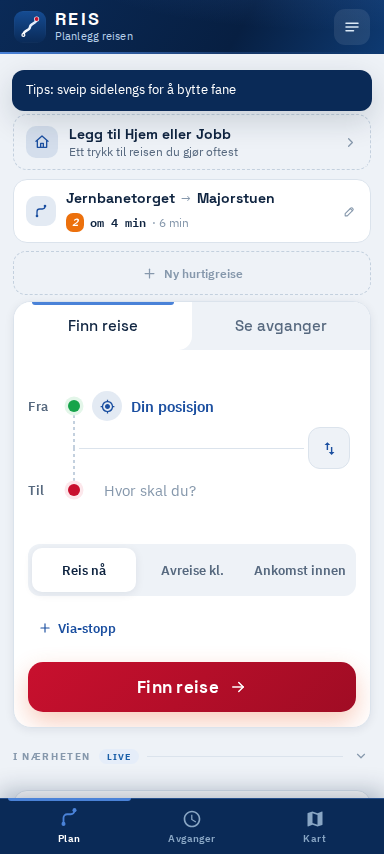
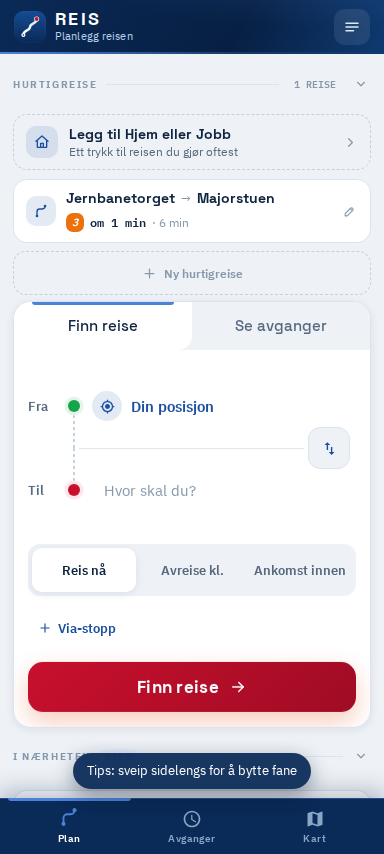
Add files via upload

Changed region(s): [[0.0312, 0.0609, 0.9688, 0.1522], [0.1875, 0.8829, 0.8125, 0.9438], [0.2812, 0.2436, 0.3125, 0.274]]

diff --git a/index.html b/index.html
@@ -1037,24 +1037,18 @@ a{color:inherit}
 .ac-item .ic svg{width:15px;height:15px;display:block}
 .ac-item b{font-size:13.5px;display:block;color:var(--ink)}
 .ac-item span{font-size:11px;color:var(--muted);display:block;white-space:nowrap;overflow:hidden;text-overflow:ellipsis;max-width:240px}
-/* FIX: linja lå over bunnmenyen og dekket fanene. Nå er den en egen rad i
-   appens ramme, rett under topplinja – da tar den sin egen plass og kan ikke
-   dekke noe som helst. Hele linja er trykkbar og åpner valgene. */
-#wakeStatus{flex:none;position:relative;z-index:1150;width:100%;min-height:46px;
-  display:flex;align-items:center;gap:10px;padding:7px 13px;text-align:left;
-  background:linear-gradient(100deg,var(--green-2,#12805A),var(--green,#16A34A));
-  color:#fff;box-shadow:0 4px 14px rgba(4,20,43,.28);
-  animation:wsIn .32s cubic-bezier(.22,1,.36,1)}
-@keyframes wsIn{from{opacity:0;transform:translateY(-100%)}to{opacity:1;transform:none}}
-#wakeStatus>svg{width:18px;height:18px;flex:none;animation:pulse 1.8s infinite}
-#wakeStatus .ws-txt{flex:1;min-width:0;display:flex;flex-direction:column;gap:1px}
-#wakeStatus b{font-size:13px;font-family:var(--font-d);white-space:nowrap;overflow:hidden;text-overflow:ellipsis}
-#wakeStatus .ws-sub{font-size:11px;opacity:.9;font-family:var(--font-m);white-space:nowrap;overflow:hidden;text-overflow:ellipsis}
-#wakeStatus .ws-more{flex:none;display:grid;place-items:center;width:26px;height:26px;border-radius:8px;
-  background:rgba(255,255,255,.18)}
-#wakeStatus .ws-more svg{width:13px;height:13px;display:block}
-/* Nær målet skifter linja til rødt – du skal av nå */
-#wakeStatus.soon{background:linear-gradient(100deg,var(--signal-2),var(--signal))}
+/* Varselet er ikke en hel rad lenger, men en kompakt brikke i topplinja. Den
+   tar ingen plass fra innholdet, står alltid synlig, og åpner valgene ved trykk. */
+#wakeChip{flex:none;display:flex;align-items:center;gap:7px;height:34px;padding:0 11px;
+  border-radius:999px;background:rgba(22,163,74,.92);color:#fff;
+  font-size:12px;font-weight:700;font-family:var(--font-m);white-space:nowrap;
+  box-shadow:0 2px 8px rgba(4,20,43,.3);animation:chipIn .3s cubic-bezier(.3,1.3,.4,1);
+  max-width:46vw;overflow:hidden}
+@keyframes chipIn{from{opacity:0;transform:scale(.8)}to{opacity:1;transform:none}}
+#wakeChip svg{width:14px;height:14px;flex:none;animation:pulse 1.8s infinite}
+#wakeChip .wc-t{overflow:hidden;text-overflow:ellipsis}
+#wakeChip.soon{background:rgba(200,16,46,.95)}
+#wakeChip:active{transform:scale(.94)}
 
 /* Oppdateringsbanner: uten dette kjørte appen videre på gammel kode helt til
    den ble lukket og åpnet på nytt. */
@@ -1067,12 +1061,21 @@ a{color:inherit}
   color:#fff;font-weight:700;font-size:12.5px}
 #updateBar .ub-x{flex:none;width:30px;height:30px;border-radius:9px;color:#A9C6E4;display:grid;place-items:center}
 #updateBar .ub-x svg{width:13px;height:13px;display:block}
-#toasts{position:absolute;top:calc(70px + var(--sat));left:12px;right:12px;z-index:3000;display:flex;flex-direction:column;gap:8px;pointer-events:none}
-.toast{background:var(--navy);color:#fff;font-size:13px;padding:11px 14px;border-radius:12px;box-shadow:var(--sh-2);animation:toastIn .3s cubic-bezier(.3,1.3,.4,1);pointer-events:auto;display:flex;align-items:flex-start;gap:10px;line-height:1.45}
+/* Meldingene lå øverst og dekket innholdet du nettopp handlet på. Nå ligger de
+   nederst, rett over menyen, som i systemets egne varsler – og bare én om
+   gangen, så de ikke stabler seg. */
+#toasts{position:absolute;left:12px;right:12px;bottom:calc(66px + var(--sab));z-index:3000;
+  display:flex;flex-direction:column-reverse;gap:6px;pointer-events:none;align-items:center}
+/* Kompakt og bare så bred som teksten trenger – ikke en grønn plate over
+   halve skjermen. */
+.toast{max-width:100%;background:rgba(10,42,87,.94);color:#fff;font-size:12.5px;
+  padding:9px 14px;border-radius:999px;box-shadow:0 6px 20px rgba(4,20,43,.4);
+  backdrop-filter:blur(8px);animation:toastIn .28s cubic-bezier(.3,1.3,.4,1);
+  pointer-events:auto;display:flex;align-items:center;gap:10px;line-height:1.4}
 .toast span{flex:1;min-width:0;word-break:break-word}
 .toast .toast-copy{flex:none;font-size:10.5px;font-weight:700;letter-spacing:.06em;background:rgba(255,255,255,.18);border-radius:7px;padding:5px 9px;color:#fff}
-.toast.err{background:#B02A37}
-.toast.ok{background:#0E7A3D}
+.toast.err{background:rgba(176,42,55,.95)}
+.toast.ok{background:rgba(14,122,61,.94)}
 .toast.out{opacity:0;transform:translateY(-8px);transition:all .3s}
 @keyframes toastIn{from{opacity:0;transform:translateY(-10px) scale(.96)}}
 #wakeFlash{position:fixed;inset:0;z-index:5000;display:none;flex-direction:column;align-items:center;justify-content:center;gap:14px;background:linear-gradient(160deg,var(--signal),var(--signal-2));color:#fff;text-align:center;padding:30px}
@@ -1117,10 +1120,10 @@ a{color:inherit}
       </svg>
       <div class="brand-txt"><h1>REIS</h1><small id="topContext">Planlegg reisen</small></div>
     </div>
+    <button id="wakeChip" hidden aria-label="Aktivt varsel – trykk for valg"></button>
     <button class="icon-btn tap" id="btnMore" aria-label="Mer – lagret, utseende og innstillinger"></button>
   </header>
 
-  <button id="wakeStatus" hidden aria-label="Aktivt varsel – trykk for valg"></button>
   <main id="views">
 
     <section id="viewPlan" class="view active">
@@ -1669,6 +1672,9 @@ function toastOnce(msg,type='',raw='',ms=60000){
   toast(msg,type,raw);
 }
 function toast(msg,type='',raw=''){
+  /* Én melding om gangen. Stabler de seg, er det alltid den nyeste som gjelder. */
+  const boks=$('#toasts');
+  if(boks)while(boks.children.length>0)boks.firstElementChild.remove();
   const t=el('div','toast '+type);
   t.appendChild(el('span',null,esc(msg)));
   if(raw){const b=el('button','toast-copy','KOPIER');
@@ -1765,7 +1771,7 @@ if(matchMedia('(prefers-color-scheme: dark)').addEventListener)matchMedia('(pref
    allerede åpen side beholder gammel HTML og JS selv om en ny service worker
    er installert. Nå oppdages det, og du får velge når. */
 /* Denne må holdes lik VERSION i sw.js. Byggeskriptet sjekker at de stemmer. */
-const APP_VERSION='v6.5.0';
+const APP_VERSION='v6.6.0';
 let swReg=null,waitingSW=null,reloading=false,byttetSelv=false;
 
 /* Service worker-livssyklusen er lunefull: en ny versjon kan bli hengende i
@@ -2001,7 +2007,7 @@ async function ensureMap(){
     return null;
   }
 }
-$('#mfRetry').onclick=async()=>{const m=await ensureMap();if(m){m.invalidateSize({pan:false});applyMapContext();toast('Kartet er lastet','ok')}};
+$('#mfRetry').onclick=async()=>{const m=await ensureMap();if(m){m.invalidateSize({pan:false});applyMapContext();0}};
 
 /* Leaflet kaster hardt på NaN-koordinater og river med seg hele visningen.
    Alt som skal på kartet passerer denne vakten først. */
@@ -2569,7 +2575,7 @@ function openReport(stopId,stopName){
       noe sted.</div>
     <div class="rep-grid">${REP.map(([k,e,l])=>`<button class="rep-btn" data-t="${k}">${e}${esc(l)}</button>`).join('')}</div>
     <div class="mc-acts" style="margin-top:12px"><button class="mini-btn ghost" id="repShare">${IC.share}Del siste rapport</button></div>`);
-  $$('#modalCard .rep-btn').forEach(b=>b.onclick=()=>{saveReport(stopId,b.dataset.t);closeModal();toast('Rapport lagret','ok');
+  $$('#modalCard .rep-btn').forEach(b=>b.onclick=()=>{saveReport(stopId,b.dataset.t);closeModal();0;
     if($('#viewDepart').classList.contains('active'))$('#depReports').innerHTML=reportsHTML(stopId);refreshMapCardReports(stopId)});
   const sh=$('#repShare');if(sh)sh.onclick=()=>{const arr=(getReports()[stopId]||[]);if(!arr.length){toast('Ingen rapporter ennå','');return}
     const t=REP.find(x=>x[0]===arr[0].type);shareText(`${stopName}: ${t[2]} – ${relMin(Date.now()-arr[0].t)} siden (via REIS Norge)`)};
@@ -2653,7 +2659,7 @@ function showWelcome(){
       const p=await getPos();state.userPos=p;setUser(p.lat,p.lon,p.acc);
       closeModal();
       loadNearby(true);renderNearby();
-      toast('Fant deg – her er stoppene i nærheten','ok');
+      0;
     }catch(e){
       logErr('geo',e);closeModal();
       toast(e.message+' Du kan fortsatt søke selv.','');
@@ -2757,40 +2763,9 @@ window.addEventListener('popstate',e=>{
    på at intervallet slår til. Virker bare når lista er helt øverst, så den
    ikke kommer i veien for vanlig rulling. */
 const PTR_MAX=90, PTR_TRIGGER=64;
-function bindPull(padSel,oppdater){
-  const pad=$(padSel);if(!pad)return;
-  const ind=el('div','ptr');ind.innerHTML=`<span class="ptr-ring">${IC.refresh}</span>`;
-  pad.parentElement.insertBefore(ind,pad);
-  let y0=null,dy=0,aktiv=false,jobber=false;
-  pad.addEventListener('touchstart',e=>{
-    if(jobber||e.touches.length!==1||pad.scrollTop>0)return;
-    y0=e.touches[0].clientY;dy=0;aktiv=true;
-  },{passive:true});
-  pad.addEventListener('touchmove',e=>{
-    if(!aktiv||jobber)return;
-    dy=e.touches[0].clientY-y0;
-    if(dy<=0){ind.style.transform='';ind.classList.remove('vis');return}
-    if(pad.scrollTop>0){aktiv=false;ind.classList.remove('vis');return}
-    if(e.cancelable&&dy>6)e.preventDefault();
-    const d=Math.min(PTR_MAX,dy*0.55);
-    ind.classList.add('vis');
-    ind.style.transform=`translateY(${d}px)`;
-    ind.classList.toggle('klar',d>=PTR_TRIGGER*0.55);
-  },{passive:false});
-  const slipp=async()=>{
-    if(!aktiv||jobber){aktiv=false;return}
-    aktiv=false;
-    const nok=dy*0.55>=PTR_TRIGGER*0.55;
-    if(!nok){ind.style.transform='';ind.classList.remove('vis','klar');return}
-    jobber=true;ind.classList.add('går');ind.style.transform=`translateY(46px)`;
-    try{if(navigator.vibrate)navigator.vibrate(8)}catch(e){}
-    try{await oppdater()}catch(e){logErr('pull',e)}
-    ind.style.transform='';ind.classList.remove('vis','klar','går');jobber=false;
-  };
-  pad.addEventListener('touchend',slipp,{passive:true});
-  pad.addEventListener('touchcancel',()=>{aktiv=false;ind.style.transform='';
-    ind.classList.remove('vis','klar')},{passive:true});
-}
+/* bindPull er fjernet – settOppDra gjorde det samme, og to implementasjoner
+   ga to hentinger per drag. */
+
 
 /* ================= sveip mellom faner =================
    Rundgang: fra Lagret sveiper du videre til Plan, og motsatt vei fra Plan til
@@ -3263,7 +3238,7 @@ async function saveQuickEditor(){
     list.unshift(item);
   }
   saveQuickTrips(list);closeModal();qtAt=0;renderQuickTrips();renderSaved();
-  toast(`Hurtigreise lagret: ${from.n} → ${to.n}`,'ok');
+  0;
 }
 
 /* ================= proaktivt varsel ================= */
@@ -3377,7 +3352,7 @@ function varsle(tittel,tekst,mønster){
 }
 /* Nedtelling mens varselet er aktivt, så du vet hvor mye tid du har. */
 function showWakeStatus(){
-  const el2=$('#wakeStatus');if(!el2)return;
+  const el2=$('#wakeChip');if(!el2)return;
   if(!state.wakeOn){el2.hidden=true;return}
   const pl=state.wakePlan;
   const igjen=pl?pl.av.t-now():null;
@@ -3391,9 +3366,15 @@ function showWakeStatus(){
   el2.classList.toggle('soon',
     (state.wakeDist!=null&&state.wakeDist<1200)||(igjen!=null&&igjen<180000));
   el2.hidden=false;
-  el2.innerHTML=`${IC.bell}<span class="ws-txt"><b>Av ved ${esc(state.wakeDest.name)}</b>`+
-    `${deler.length?`<span class="ws-sub">${esc(deler.join(' · '))}</span>`:''}</span>`+
-    `<span class="ws-more">${IC.chevD}</span>`;
+  /* Plass til én opplysning i topplinja: den mest presserende. */
+  let kort;
+  if(utenGps)kort='søker GPS';
+  else if(igjen!=null&&igjen>-60000&&igjen<3600000)kort=relMin(Math.max(0,igjen));
+  else if(state.wakeDist!=null)kort=fmtWalk(state.wakeDist);
+  else kort='på';
+  el2.innerHTML=`${IC.bell}<span class="wc-t">${esc(kort)}</span>`;
+  el2.title=`Av ved ${state.wakeDest.name}${deler.length?' · '+deler.join(' · '):''}`;
+  el2.setAttribute('aria-label',el2.title+'. Trykk for valg.');
   el2.onclick=openWakeSheet;
 }
 /* Trykk på linja gir valgene – i stedet for én kryssknapp som bare kan skru av. */
@@ -3438,12 +3419,12 @@ function openWakeSheet(){
   $('#woOff').onclick=()=>{stopWake();closeModal();toast('Varselet er av')};
 }
 function stopWake(){state.wakeOn=false;state.wakeDist=null;state.wakePlan=null;
-  clearInterval(state.wakeTimer);const ws=$('#wakeStatus');if(ws)ws.hidden=true;if(state.wakeWatchId!=null){try{navigator.geolocation.clearWatch(state.wakeWatchId)}catch(e){}state.wakeWatchId=null}syncWakeUI()}
+  clearInterval(state.wakeTimer);const ws=$('#wakeChip');if(ws)ws.hidden=true;if(state.wakeWatchId!=null){try{navigator.geolocation.clearWatch(state.wakeWatchId)}catch(e){}state.wakeWatchId=null}syncWakeUI()}
 function syncWakeUI(){$$('#detTools .tool-btn.wake, #mapCard .tool-btn.wake').forEach(b=>{b.classList.toggle('on',state.wakeOn);
   b.innerHTML=state.wakeOn?`${IC.bell} Vekk meg: PÅ`:`${IC.bell} Vekk meg`})}
 function fireWake(grunn){
   state.wakeFired=true;clearInterval(state.wakeTimer);
-  const ws=$('#wakeStatus');if(ws)ws.hidden=true;
+  const ws=$('#wakeChip');if(ws)ws.hidden=true;
   try{if(navigator.vibrate)navigator.vibrate([500,250,500,250,700])}catch(e){}
   try{if('Notification' in window&&Notification.permission==='granted')new Notification('REIS – du er fremme!',{body:'Holdeplass: '+state.wakeDest.name})}catch(e){}
   $('#wfTitle').textContent=grunn==='tid'?'Snart fremme':'Du er fremme!';
@@ -3628,7 +3609,7 @@ async function useMyPosition(uid2){
     const label=await reverseGeocode(p.lat,p.lon).catch(()=>'Min posisjon');
     s.name=label;s.lat=p.lat;s.lon=p.lon;s.id=null;
     renderStops();loadNearby(true);
-    toast(`Satt til ${label}`,'ok');
+    0;
   }catch(e){logErr('geo',e);toast(e.message,'err')}
 }
 
@@ -3911,7 +3892,7 @@ function bindSpotActs(root){
   root.querySelectorAll('[data-act]').forEach(b=>b.onclick=()=>{
     const c=b.closest('.spot'),a={title:c.dataset.title,lat:+c.dataset.lat,lon:+c.dataset.lon};
     if(b.dataset.act==='add')addSpotToJourney(a);
-    else if(b.dataset.act==='fav'){const fp=loadLS('favPlaces',[]);fp.unshift({n:a.title,lat:a.lat,lon:a.lon});saveLS('favPlaces',fp.slice(0,12));b.innerHTML=IC.star;toast('Sted lagret','ok')}
+    else if(b.dataset.act==='fav'){const fp=loadLS('favPlaces',[]);fp.unshift({n:a.title,lat:a.lat,lon:a.lon});saveLS('favPlaces',fp.slice(0,12));b.innerHTML=IC.star;0}
   });
 }
 function addSpotToJourney(a){
@@ -3958,7 +3939,7 @@ $('#btnSaveJ').onclick=()=>{
   const item={from:{n:from.name,lat:from.lat,lon:from.lon},to:{n:to.name,lat:to.lat,lon:to.lon},vias:vias.filter(v=>v.lat).map(v=>({n:v.name,lat:v.lat,lon:v.lon})),t:Date.now()};
   const dup=fj.findIndex(x=>x.from.n===item.from.n&&x.to.n===item.to.n);
   if(dup>-1){fj.splice(dup,1);saveLS('favJourneys',fj);$('#btnSaveJ').textContent='Lagre';toast('Fjernet fra hurtigreiser')}
-  else{fj.unshift(item);saveLS('favJourneys',fj.slice(0,8));$('#btnSaveJ').textContent='Lagret';toast('Lagret som hurtigreise','ok')}
+  else{fj.unshift(item);saveLS('favJourneys',fj.slice(0,8));$('#btnSaveJ').textContent='Lagret';0}
   qtAt=0;renderQuickTrips();
 };
 async function loadTips(p){
@@ -4594,7 +4575,7 @@ function startFollow(){
      gatenivå hvis du er lenger ute – men aldri zoom UT, du kan ha valgt selv. */
   if(mapUsable()&&map.getZoom()<16&&state.userPos)
     moveSelf(()=>map.setView([state.userPos.lat,state.userPos.lon],16,{animate:true}));
-  toast('Følger deg mens du går','ok');setDotState();
+  0;setDotState();
   followWatch=navigator.geolocation.watchPosition(p=>{
     /* Signalet er tilbake – fjern «leter»-tilstanden. */
     if(followLost){followLost=0;clearTimeout(followLostTimer);$('#fabLocate').classList.remove('searching')}
@@ -5022,7 +5003,7 @@ async function showPlaceCard(lat,lon){
     const setStop=(idx,label)=>{
       const t=idx==='to'?state.stops[state.stops.length-1]:state.stops[0];
       t.name=name;t.lat=lat;t.lon=lon;t.id=null;renderStops();
-      toast(`${label} satt til ${name}`,'ok');
+      0;
       if(state.stops[0].lat&&state.stops.at(-1).lat){switchTab('plan');findJourney(false)}
     };
     $('#pcTo').onclick=()=>setStop('to','Mål');
@@ -5100,7 +5081,7 @@ function renderSaved(){
     <button class="mini-btn" data-pu="${i}">Bruk</button><button class="mini-btn ghost" data-pd="${i}">${IC.x}</button></div>`).join(''):'<p class="hint">Lagre severdigheter med stjerne-knappen.</p>';
   $('#favJourneys').querySelectorAll('[data-j]').forEach(b=>b.onclick=()=>applyJourney(fj[+b.dataset.j]));
   $('#favJourneys').querySelectorAll('[data-jd]').forEach(b=>b.onclick=()=>{fj.splice(+b.dataset.jd,1);saveLS('favJourneys',fj);renderSaved();renderQuickTrips()});
-  $('#favPlaces').querySelectorAll('[data-pu]').forEach(b=>b.onclick=()=>{const p=fp[+b.dataset.pu];const t=state.stops[state.stops.length-1];t.name=p.n;t.lat=p.lat;t.lon=p.lon;t.id=null;renderStops();switchTab('plan');showPlanSection('form');toast('Mål satt','ok')});
+  $('#favPlaces').querySelectorAll('[data-pu]').forEach(b=>b.onclick=()=>{const p=fp[+b.dataset.pu];const t=state.stops[state.stops.length-1];t.name=p.n;t.lat=p.lat;t.lon=p.lon;t.id=null;renderStops();switchTab('plan');showPlanSection('form');0});
   $('#favPlaces').querySelectorAll('[data-pd]').forEach(b=>b.onclick=()=>{fp.splice(+b.dataset.pd,1);saveLS('favPlaces',fp);renderSaved()});
 }
 $('#btnCopyLog').onclick=()=>{
@@ -5130,7 +5111,7 @@ $('#btnCheckUpdate').onclick=async()=>{
 $('#btnClearLog').onclick=()=>{errLog=[];saveLS('errlog',[]);renderErrLog();toast('Feilloggen er tømt','ok')};
 $('#btnReset').onclick=()=>{if(confirm('Tømme alle lagrede reiser, steder, nylige søk, rapporter og favorittlinje?')){
   ['recents','favPlaces','favJourneys','reports','favLine','home','work','errlog'].forEach(k=>localStorage.removeItem('reis.'+k));
-  state.home=state.work=state.favLine=null;errLog=[];renderSaved();renderRecents();renderCommuter();renderErrLog();toast('Tømt','ok')}};
+  state.home=state.work=state.favLine=null;errLog=[];renderSaved();renderRecents();renderCommuter();renderErrLog();0}};
 
 function computeTitle(){
   if(state.wakeOn&&state.wakeDest)return 'Vekk meg → '+state.wakeDest.name;
@@ -5153,23 +5134,16 @@ function tickClock(){}
 
 $('#app').dataset.tab='plan';
 setSearchMode(loadLS('searchMode','trip'));
-/* Avgangstavla og «I nærheten» er de to som blir gamle mens du ser på dem. */
-bindPull('#viewDepart .scrollpad',async()=>{
-  if(state.departStop){await loadDepartures(state.departStop.id,true);toast('Oppdatert','ok')}
-  else toast('Velg et stoppested først','');
-});
-bindPull('#viewPlan .scrollpad',async()=>{
-  await Promise.all([loadNearby(true),loadQuickLive(true)]);
-  updateCommuterLive();toast('Oppdatert','ok');
-});
-/* Avgangstavla og Plan kan dras ned for å hente på nytt. */
+/* FIX: dra-for-å-oppdatere var registrert TO ganger – en gammel bindPull og en
+   nyere settOppDra – så hvert drag ga to hentinger og to «Oppdatert»-bobler.
+   Én registrering, og ingen bekreftelse: snurringen ER tilbakemeldingen. */
 settOppDra('#viewDepart .scrollpad',async()=>{
-  if(state.departStop){await loadDepartures(state.departStop.id);toast('Oppdatert','ok')}
+  if(state.departStop)await loadDepartures(state.departStop.id);
   else toast('Velg et stoppested først','');
 });
 settOppDra('#viewPlan .scrollpad',async()=>{
   await Promise.all([loadNearby(true),loadQuickLive(true)]);
-  updateCommuterLive();toast('Oppdatert','ok');
+  updateCommuterLive();
 });
 initSections();syncModeChips('#planModes','mode-chip',state.modes);renderFilterNote();
 renderNearby();loadNearby();startNearby();renderQuickTrips();updateSecCounts();
@@ -5214,7 +5188,7 @@ whenVisible(away=>{
       const r=await autocomplete(txt.slice(0,120));
       if(r[0]){const t=state.stops[state.stops.length-1];
         Object.assign(t,{name:r[0].name,lat:r[0].lat,lon:r[0].lon,id:r[0].id});
-        renderStops();toast(`Mål satt til ${r[0].name}`,'ok');
+        renderStops();0;
         if(state.stops[0].lat)findJourney(false);
         return;}
     }catch(e){logErr('share',e)}

diff --git a/sw.js b/sw.js
@@ -5,7 +5,7 @@
      kartfliser → cache-first med tak på antall fliser
      API-er     → network-first med cachet fallback (tunnel/dårlig dekning)
 */
-const VERSION = 'v6.5.0';
+const VERSION = 'v6.6.0';
 const SHELL_CACHE = `reis-shell-${VERSION}`;
 const TILE_CACHE = `reis-tiles-${VERSION}`;
 const DATA_CACHE = `reis-data-${VERSION}`;

diff --git a/ENDRINGER.md b/ENDRINGER.md
@@ -2,7 +2,7 @@
 
 Alt under er verifisert mot Entur live 31. juli 2026, ikke gjettet.
 `node test-live.js` kjører appens egne spørringer mot API-et (15 tester),
-`node test-dom.js` tester grensesnitt og logikk i jsdom (259 tester),
+`node test-dom.js` tester grensesnitt og logikk i jsdom (262 tester),
 `python3 shot.py`, `measure.py`, `swipe_test.py`, `fill_test.py`, `qt_test.py`,
 `sec_test.py`, `overlap_test.py`, `perf_test.py`, `font_test.py`, `a11y.py` og
 `polish_test.py`, `plan_test.py`, `soak.py`, `regress_map.py` og `update_test.py`
@@ -164,6 +164,42 @@ Nå:
 
 Testen booter appen i jsdom **uten** Leaflet i det hele tatt og bekrefter at den
 starter, at Plan-fanen tegnes, og at alle kartfunksjonene har vakt.
+
+---
+
+## Slutt på bobler som er i veien
+
+Meldt av bruker med skjermbilde: to «Oppdatert»-bobler oppå avgangslista.
+
+**Rotårsaken var to implementasjoner av samme funksjon.** Dra-for-å-oppdatere
+var registrert to ganger – en eldre `bindPull` og en nyere `settOppDra` – så
+hvert drag ga **to hentinger og to bobler**. Den gamle er fjernet.
+
+> Testene hadde faktisk to versjoner av samme test også, én for hver
+> implementasjon, og begge besto. At de besto samtidig var selve varselet om at
+> koden fantes i to utgaver – jeg så det bare ikke før skjermbildet kom.
+
+**Meldinger som ikke sier noe nytt, er fjernet.** «Oppdatert» etter et drag,
+«Følger deg mens du går», «Sted lagret», «Mål satt», «Kartet er lastet» – i alle
+tilfellene ser du resultatet på skjermen. Snurringen *er* tilbakemeldingen.
+12 bekreftelser fjernet.
+
+**De som er igjen, er flyttet ut av veien:**
+- nederst, rett over menyen – ikke oppå innholdet du nettopp handlet på
+- **én om gangen**; kommer en ny, erstatter den den forrige
+- kompakt brikke i stedet for en plate over halve skjermen
+
+Målt: 1 melding om gangen, 10 px klaring til menyen, 0 px² overlapp, og
+**1 henting per drag** i stedet for 2.
+
+## Varselet flyttet inn i topplinja
+
+Raden under toppen tok en hel linje av skjermen. Varselet er nå en kompakt
+brikke i selve topplinja, ved siden av menyknappen: **🔔 13 min**, som skifter
+til rødt når du nærmer deg. Trykk gir samme valgpanel som før, og hele statusen
+ligger i tittelen for skjermleser.
+
+Målt: brikka dekker **0 px²** av både innhold og meny.
 
 ---
 
